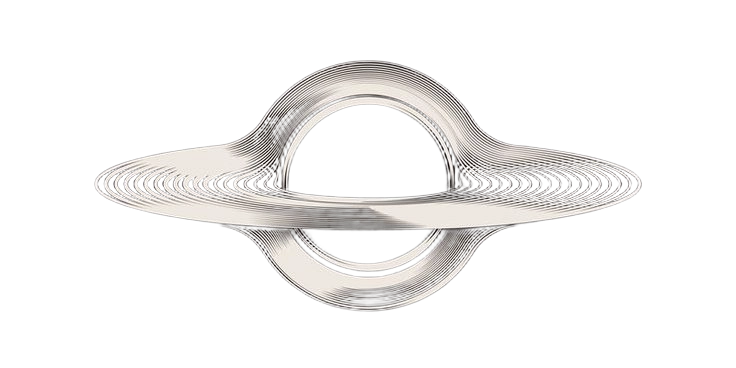
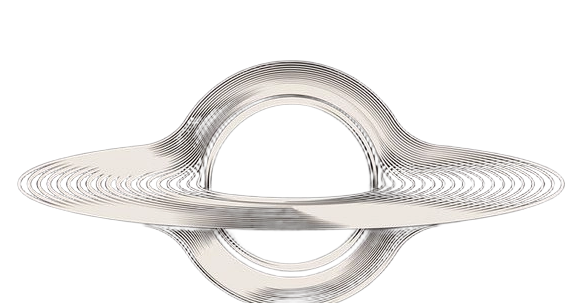
Finished creating the website, also added the footer section

Changed region(s): [[0.0311, 0.1485, 0.9948, 1.0]]

diff --git a/styles.css b/styles.css
@@ -468,6 +468,63 @@ body{
     text-decoration: underline;
     cursor: default;
   }
+
+  .contact-inner{
+    text-align: center;
+    padding: 4rem 0 6rem;
+  }
+  .contact-text{
+    font-family: 'Syne', sans-serif;
+    font-size: 4rem;
+    font-weight: 750;
+    line-height: 1.05;
+    color: var(--white);
+    letter-spacing: -0.02em;
+    margin-bottom: 0;
+  }
+
+  .contact-desc{
+    color: var(--dim);
+    font-size: 1rem;
+    margin-bottom: 2.5rem; margin-top: 2.5rem;
+  }
+  .contact-me{
+    font-family: 'Space Mono', sans-serif;
+    font-size: 1.1rem;
+    color: var(--white);
+    text-decoration: none;
+    border-bottom: 1px solid rgba(255, 255, 255, 0.3);
+    padding-bottom: 2px;
+    transition: border-color 0.2s;
+    letter-spacing: 0.1em;
+  }
+  .contactText{
+    font-size: 1.1rem;
+    font-family: 'Space Mono', sans-serif;
+    color: var(--white);
+    letter-spacing: 0.1em;
+    margin-bottom: 0.1em;
+  }
+  .contact-me:hover{
+    border-bottom: 1px solid var(--white);
+  }
+  .profile-links{
+    margin-top: 2.5rem;
+    display: flex;
+    justify-content: center;
+    gap: 2.5rem;
+  }
+  .profile-links a{
+    font-size: 0.90rem;
+    letter-spacing: 0.14em;
+    text-transform: uppercase;
+    color: var(--dim);
+    text-decoration: none;
+    transition: color 0.2s;
+  }
+  .Link:hover{
+    color: var(--white);
+  }
   @media(max-width: 640px){
   .hamburger {
     display: block;
@@ -503,6 +560,32 @@ body{
   }
   .about-grid { grid-template-columns: 1fr; }
 }
+footer{
+  font-family: 'Space Mono', sans-serif;
+  position: relative;
+  overflow: hidden;
+  z-index: 1;
+  text-align: center;
+  padding: 4rem;
+  color: white;
+  height: 120px;
+  font-size: 1rem;
+  letter-spacing: 0.1em;
+  border-top: 0.5px solid var(--card-border);
+  background-color: var(--background);
+  opacity: 0.5;
+}
+.blackHole{
+  display: block;
+  width: 900px;
+  height: 500px;
+  margin: 0 auto; 
+  margin-top: -280px;
+  margin-bottom: -129px;
+  position: relative;
+  z-index: -1;                /* behind footer */
+  pointer-events: none;
+}
 
 /* ========== ANIMATIONS ========== */
   .reveal {
@@ -524,3 +607,4 @@ body{
     .nav-links { display: none; }
     .about-grid { grid-template-columns: 1fr; }
   }
+  

diff --git a/index.html b/index.html
@@ -4,8 +4,10 @@
     <meta charset="UTF-8">
     <meta name="viewport" content="width=device-width, initial-scale=1.0">
     <title>Lyster's Portfolio</title>
+    <link rel="icon" type="image/png" href="Icons/black_hole_logo - Copy.png">
     <link rel="stylesheet" href="styles.css">
     <link href="https://fonts.googleapis.com/css2?family=Syne:wght@400..800&display=swap" rel="stylesheet">
+    <link href="https://fonts.googleapis.com/css2?family=Space+Mono:ital,wght@0,400;0,700;1,400;1,700&display=swap" rel="stylesheet">
 </head>
 <body>
     <div class="ellipse"></div>
@@ -74,6 +76,7 @@
             </div>
         </div>
      </section>
+     <!-- PROJECT SECTION -->
      <section id="projects">
         <div class="section-wrap">
                 <div class="section-label reveal">What I've built</div>
@@ -141,6 +144,7 @@
                     </div>
             </div>
      </section>
+     <!-- SKILLS SECTION -->
     <section id="skills">
         <div class="section-wrap">
             <div class="section-label reveal">What I Know</div>
@@ -199,6 +203,29 @@
             </div>
         </div>
     </section>
+
+
+    <!-- SECTION CONTACT  -->
+    <section id="contact">
+        <div class="section-wrap">
+            <div class="contact-inner reveal">
+                <h2 class="contact-text">Let's work <br> together.</h2>
+                <p class="contact-desc">Open for internships, collaborations, and creating modern web applications.</p>
+                <p class="contactText">Contact Me:</p>
+                <a target="_blank" href="mailto:[email redacted]" class="contact-me">[email redacted]</a>
+                <div class="profile-links">
+                    <a class="Link" target="_blank" href="https://github.com/Pakibabes">Github</a>
+                    <a class="Link" target="_blank" href="https://www.linkedin.com/in/john-lyster-arbiol-24a09a3ba/">LinkedIn</a>
+                    <a class="Link" target="_blank" href="https://www.facebook.com/larbiol1">Facebook</a>
+                </div>
+            </div>
+        </div>
+    </section>
+    <img class="blackHole" src="Icons/hd_restoration_result_image.png">
+    <footer>
+        <span class="footer-content">© 2026 John Lyster T. Arbiol — Built with passion & caffeine ✦</span>
+    </footer>
+    <!-- JAVASCRIPT -->
     <script src="scripts.js"></script>
 </body>
 </html>